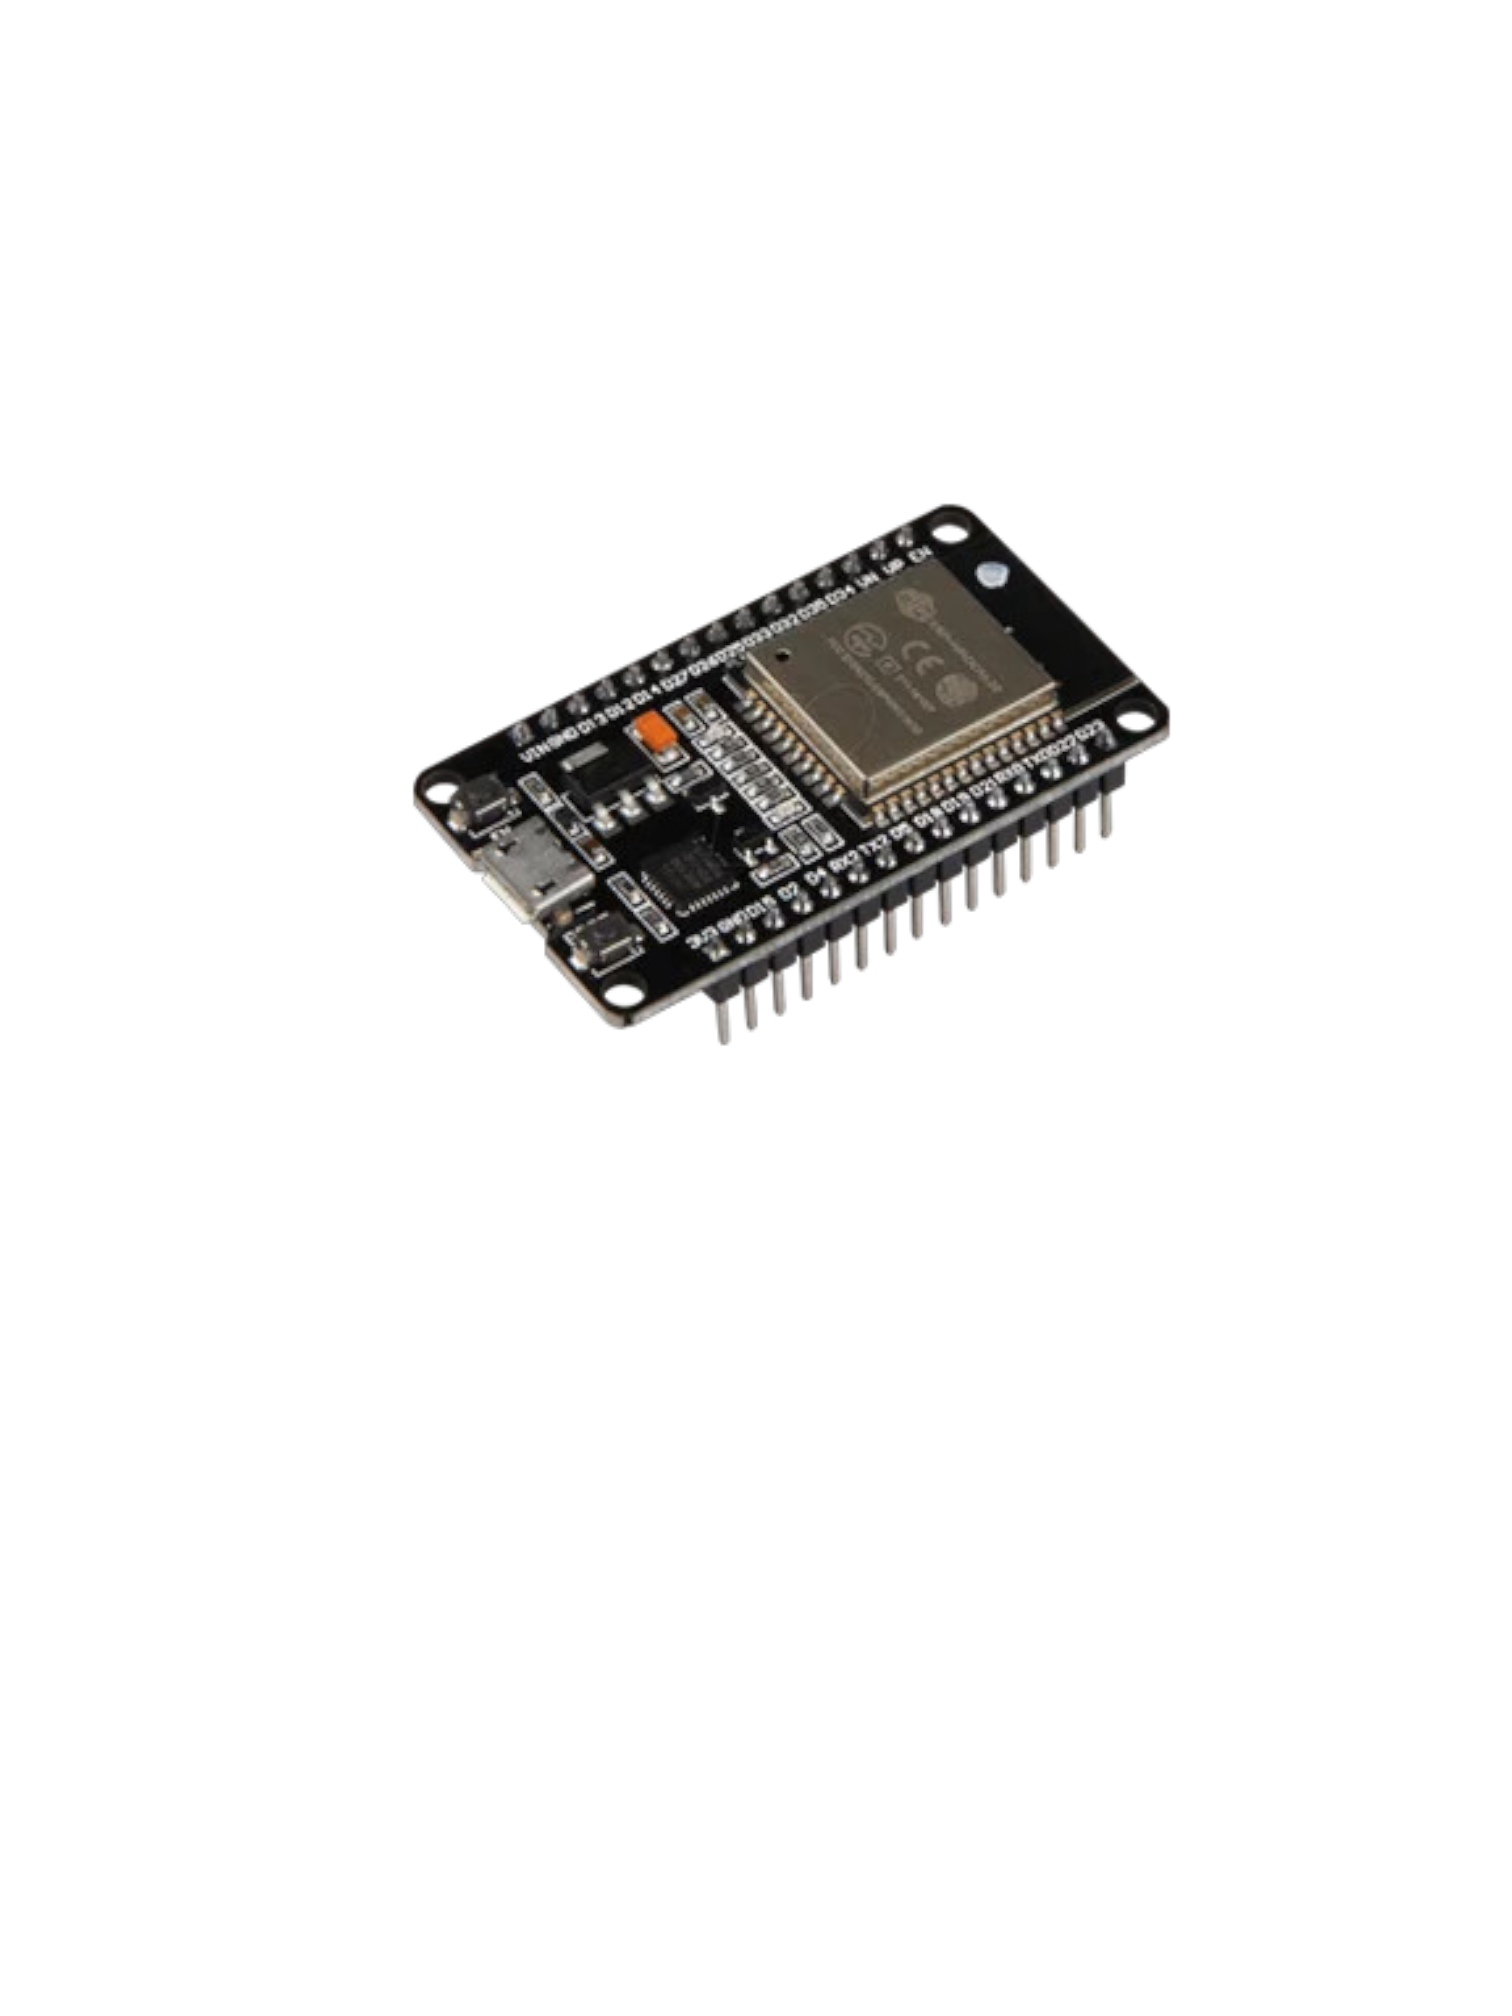
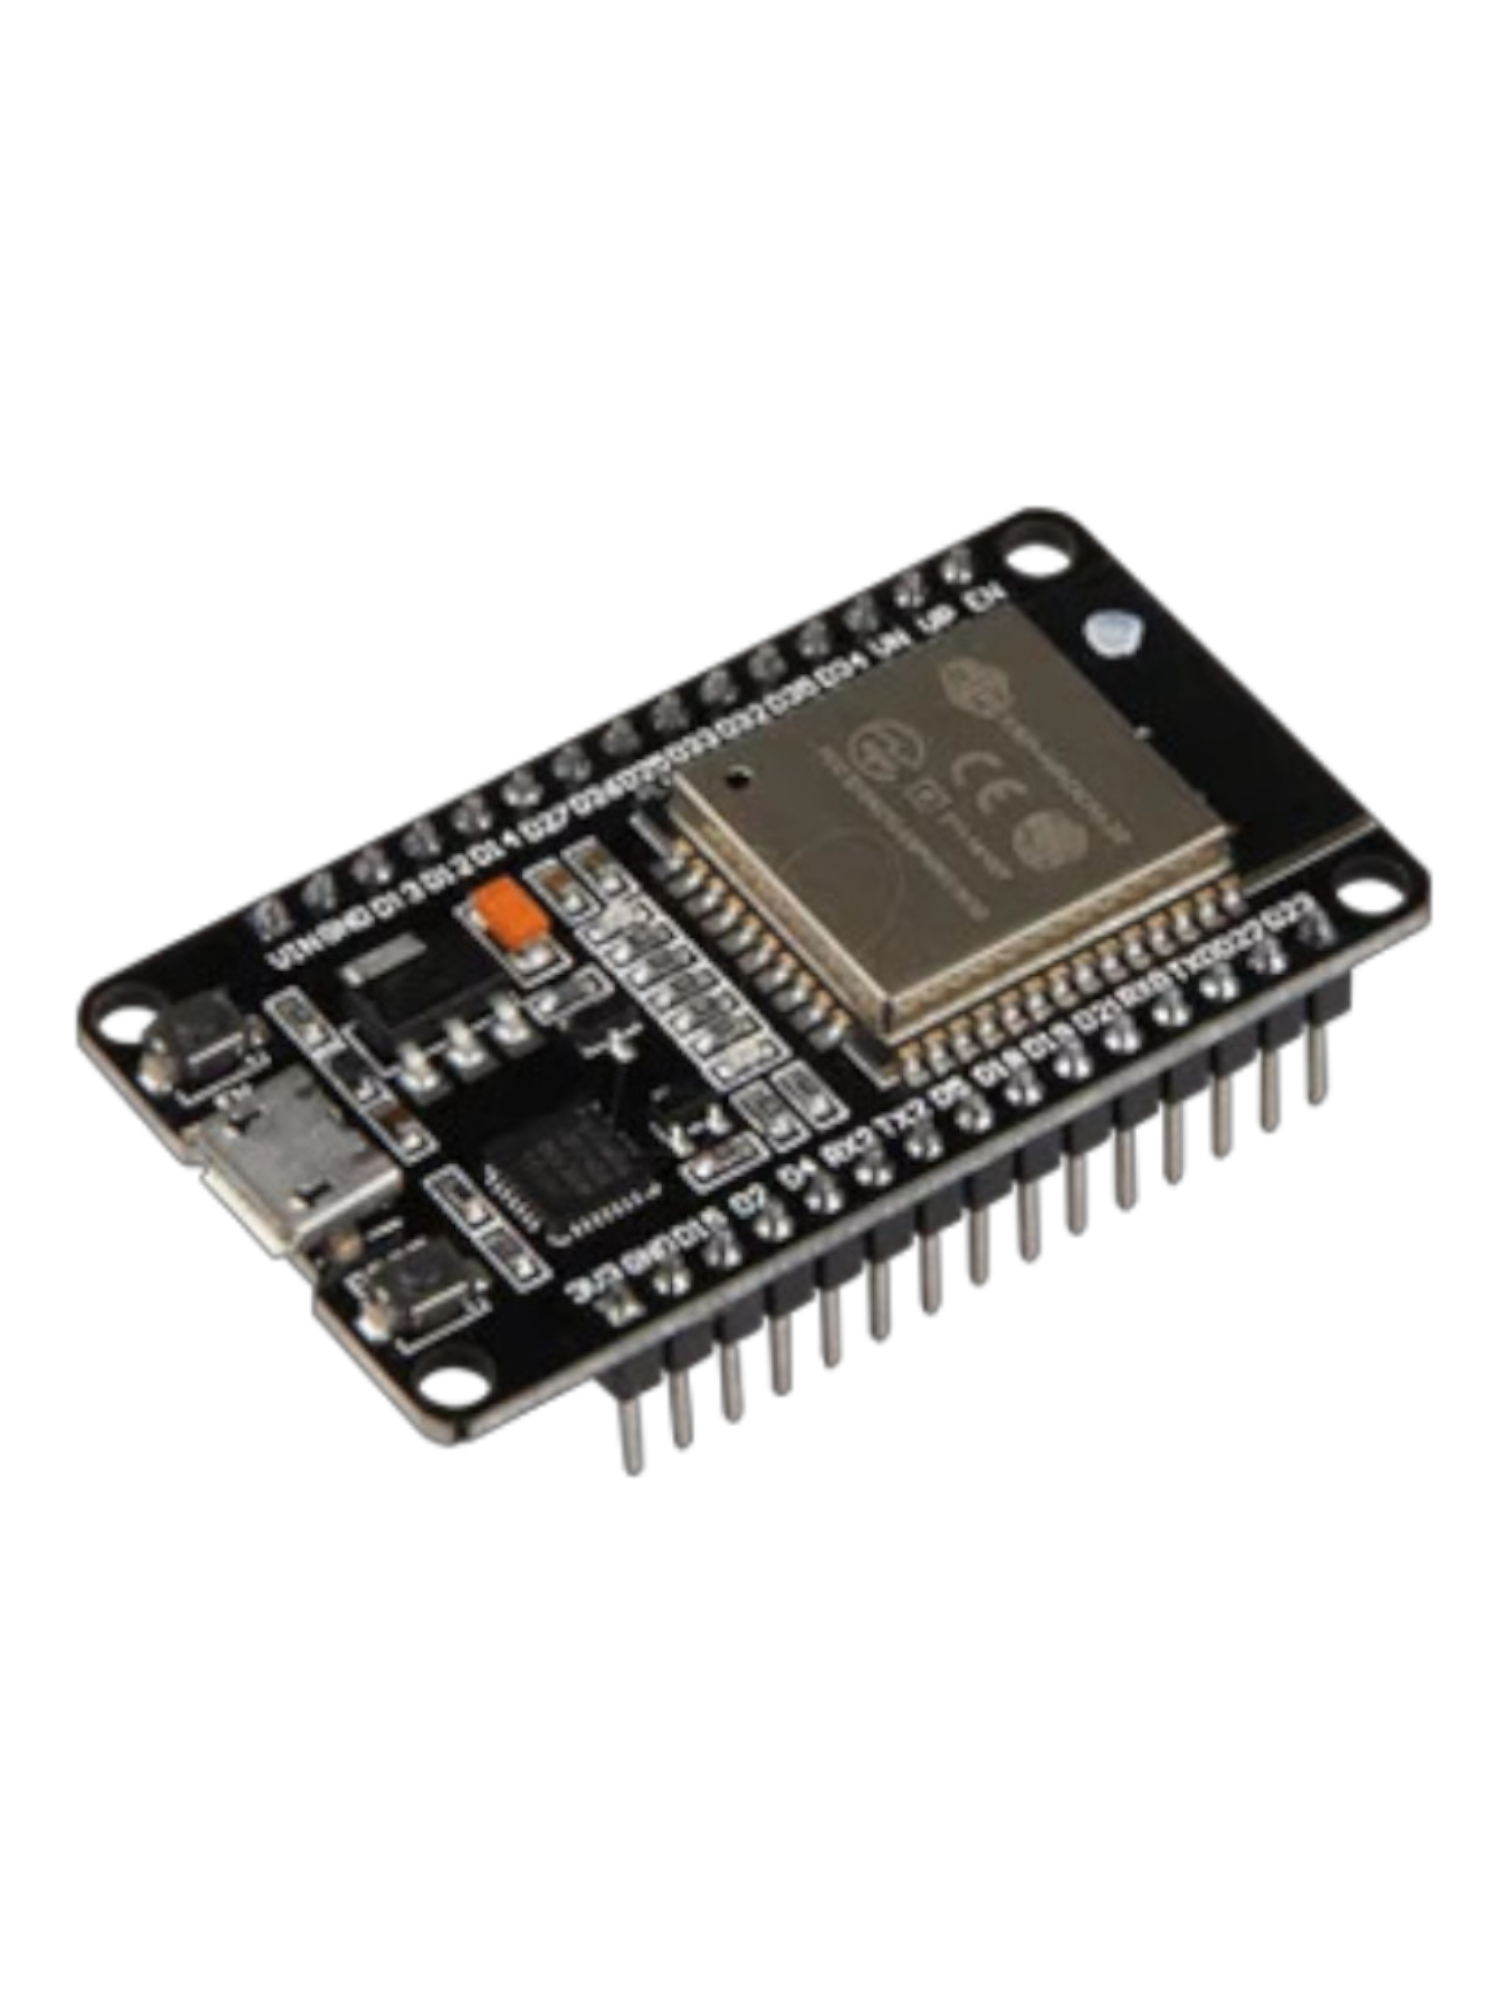
Fix nav bar issues Add esp32

Changed region(s): [[0.0307, 0.248, 0.9813, 0.744]]

diff --git a/index.html b/index.html
@@ -208,6 +208,7 @@
     </section>
 
     <!-- Technology Section -->
+     <section id="technology" class="technology">
     <div class="section-header fade-in">
         <h2 class="section-title">Technology Behind E-S.H.A.R.A</h2>
         <p class="section-subtitle">Explore the innovative components that power our smart translation glove.</p>
@@ -286,8 +287,19 @@
                        
                     </div>
                 </div>
+           
+             <!-- Slide 6: Miniature Speaker -->
+             <div class="slide" data-tech-color="#1abc9c">
+                <div class="slide-image" style="background-image: url('images/esp32.png');">
+                    <div class="slide-overlay"></div>
+                </div>
+                <div class="slide-content">
+                    <h3 class="slide-title">ESP32 dev kit v1 </h3>
+                    <p class="slide-description">The esp32 transmits data from the second glove to the Raspberry pi placed on the first glove to ensure seamless communication.</p>
+                   
+                </div>
             </div>
-    
+        </div>
             <!-- Navigation Controls -->
             <div class="slider-controls">
                 <button class="slider-arrow prev-slide" aria-label="Previous slide">
@@ -309,8 +321,7 @@
             </div>
         </div>
     </section>
-
-
+</section>
     <div class="section-header fade-in" style="margin-top: 80px;">
         <h3 class="section-title">From gestures To Meaning</h3>
         <p class="section-subtitle">How E-S.H.A.R.A transforms hand gestures into meaningful communication</p>
@@ -344,10 +355,10 @@
         </div>
     </div>
     </div>
-    </section>
+    
 
 <!-- 3D Design Section -->
-<section id="3d-design" class="design-section">
+<section id="3d-design" class="3d-design">
     <div class="container">
       <div class="section-header fade-in">
         <h2 class="section-title">Glove Design</h2>
